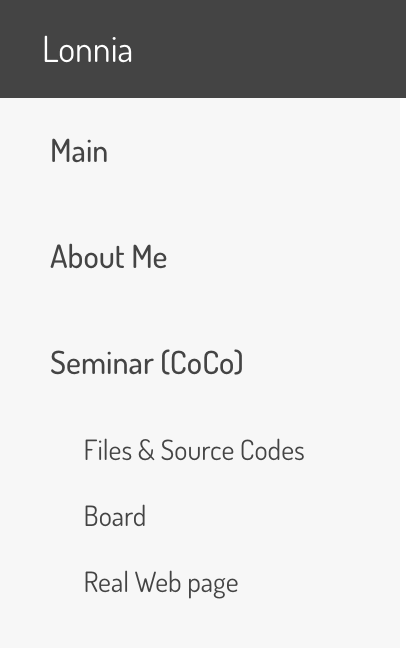
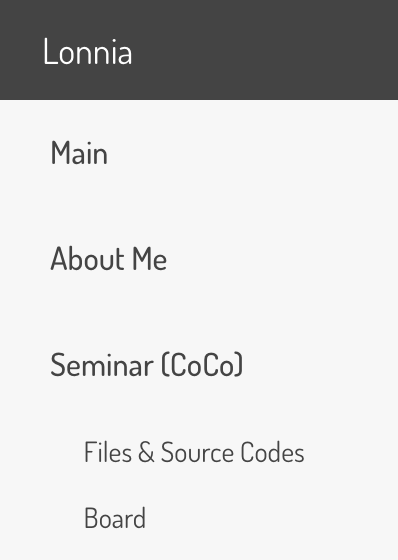
-

diff --git a/www/application/views/include/navbar_view.php b/www/application/views/include/navbar_view.php
@@ -71,7 +71,6 @@
             <div>
               <a href="/seminar/sub/source" class="list-group-item">&nbsp;&nbsp;&nbsp;&nbsp;&nbsp;&nbsp;Files & Source Codes</a>
               <a href="/seminar/sub/board" class="list-group-item">&nbsp;&nbsp;&nbsp;&nbsp;&nbsp;&nbsp;Board</a>
-              <a href="/seminar/sub/web" class="list-group-item">&nbsp;&nbsp;&nbsp;&nbsp;&nbsp;&nbsp;Real Web page</a>
             </div>
           </div>
           <!-- End Sub-Menu -->
